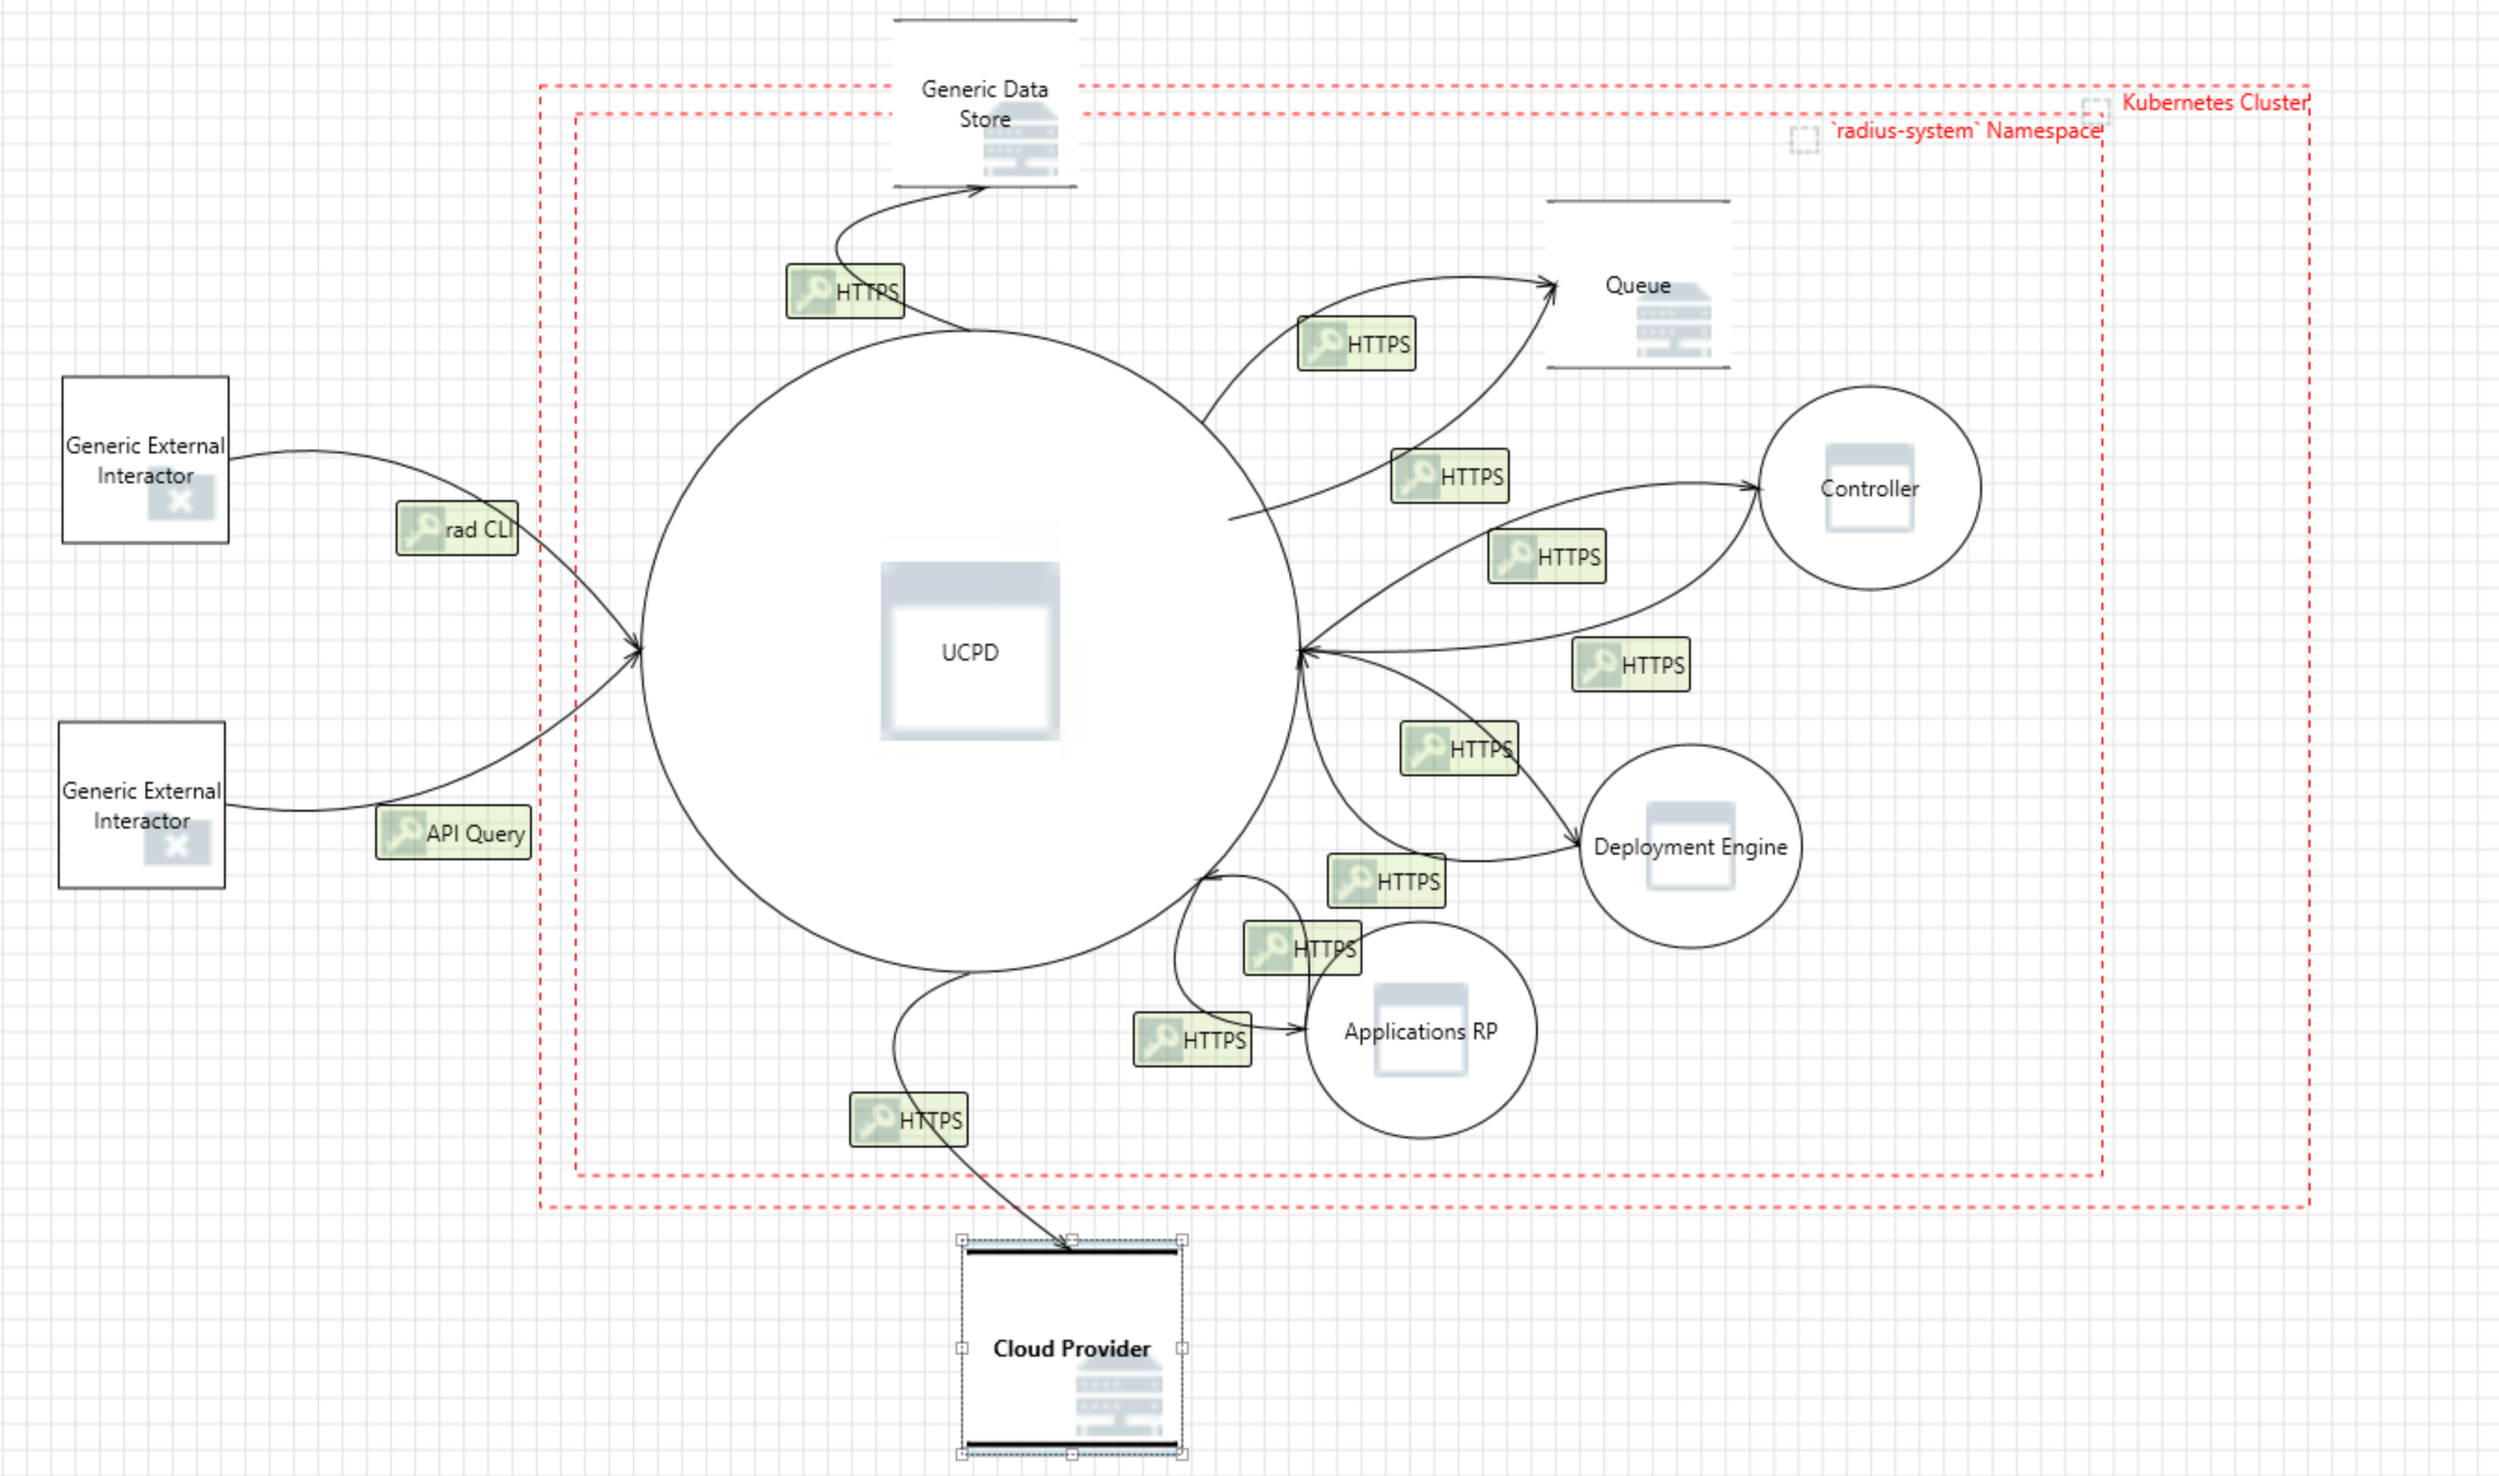
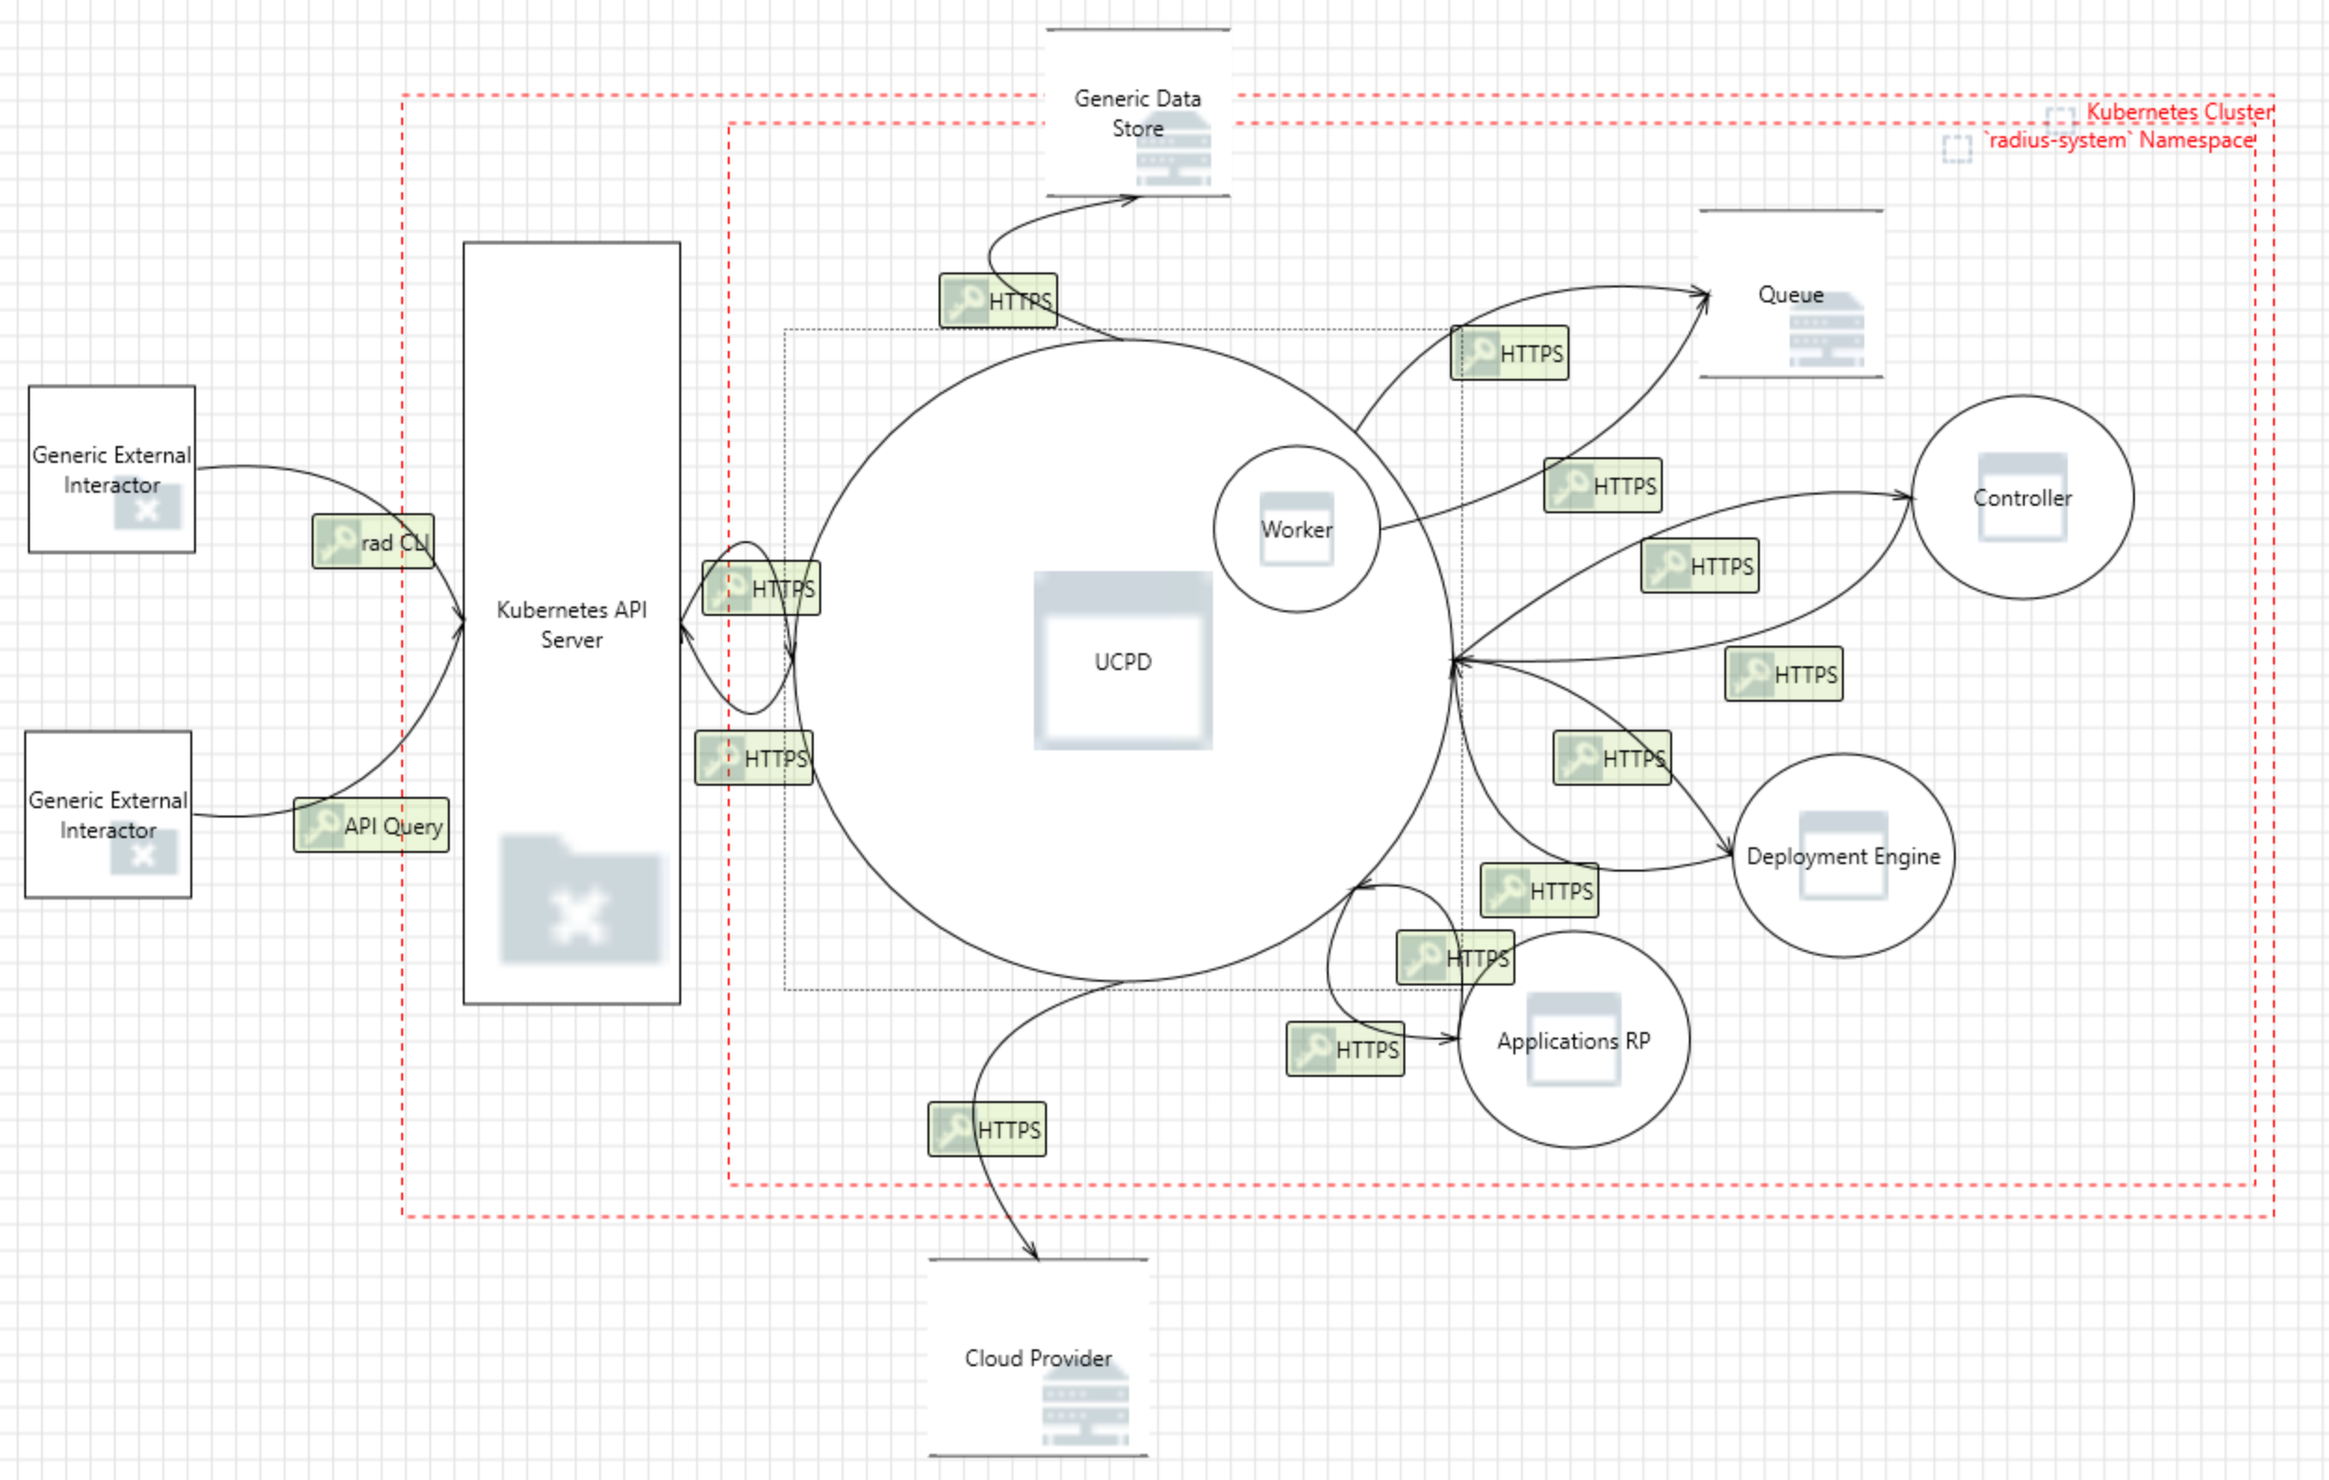
Addressing feedback

diff --git a/architecture/2024-11-ucp-component-threat-model.md b/architecture/2024-11-ucp-component-threat-model.md
@@ -147,19 +147,25 @@ In this section, we will discuss the different clients of the Radius UCP (Univer
 
 ## Trust Boundaries
 
+### UCP Container runs as Non-Root
+
+As of November 24, 2024, the UCP container runs as a non-root user. This security measure helps to limit the potential impact of a container compromise by restricting the privileges available to the container. Running containers as non-root users is a best practice that enhances the overall security posture of the system. For more details, refer to the [Dockerfile](https://github.com/radius-project/radius/blob/96504063bbab8c0ee53b0955a9647cf00c7f5fae/deploy/images/ucpd/Dockerfile#L14).
+
 ### Trust Model of UCP Clients
 
-The clients of the UCP include other Radius components like Applications RP, CLI, Controller, Dashboard, and Deployment Engine. Most of these clients reside within the same Kubernetes cluster and namespace as the UCP, except for the Radius CLI, which operates outside of the Kubernetes cluster and, therefore, outside of the namespace.
+UCP is a [Kubernetes API Service](https://kubernetes.io/docs/concepts/extend-kubernetes/api-extension/apiserver-aggregation/) that aims to extend Kubernetes with its APIs and capabilities. So anything that is sent to an API path that starts with `/apis/api.ucp.dev/v1alpha3` gets sent to the UCP through the Kubernetes API Server. This means that for external clients like Radius CLI, we rely on Kubernetes authentication and don't provide any additional authentication mechanism.
 
-For clients that are in the same cluster and namespace as the UCP component, we rely on Kubernetes to implement the necessary security measures and establish the required trust boundary. For external clients--meaning clients that are outside of this trust boundary--we rely on the host machine's trust boundary and assume that it is not compromised. In such cases, proper authentication and authorization are essential to maintain security.
+![CLI - Kubernetes API Server - UPC](./2024-11-ucp-component-threat-model/cli-kubernetes-api-server-ucp.png)
+
+In terms of authentication between UCP and resource providers, we also don't have any authentication mechanisms right now. We use [AnonymousCredential](https://github.com/radius-project/radius/blob/main/pkg/azure/tokencredentials/anonymous.go#L50) while making calls to the resource providers from UCP. It basically means that there are no tokens in the request making the communication unauthenticated.
 
 ### Trust Model of Internal Resource providers
 
 Currently, our only resource provider is the Applications RP. As mentioned above, the Applications RP lives in the same Kubernetes cluster and namespace as the UCP. Therefore, the trust boundaries are defined by the Kubernetes cluster and the namespace within that cluster.
 
-### Trust Model of External Resource Manages (Azure and AWS)
+### Trust Model of External Resource Managers (Azure and AWS)
 
-The UCP routes user requests to Azure and AWS whenever a resource from those providers is requested. In these cases, we rely on Azure and AWS to establish the trust boundary and operate under the assumption that they are secure and trustworthy.
+The UCP routes user requests to Azure and AWS whenever a resource from those providers is requested. In these cases, we rely on Azure and AWS to establish the trust boundary and operate under the assumption that they are secure and trustworthy. We provide necessary credentials that the user has provided to us and authenticate to these cloud providers. We, then, trigger the next action.
 
 ## Assumptions
 
@@ -187,7 +193,7 @@ This threat model assumes that:
 
 ### Threats
 
-#### Threat: Spoofing Deployment Engine Could Cause Information Disclosure and Denial of Service
+#### Threat: Spoofing a Resource Provider Could Cause Information Disclosure and Denial of Service
 
 **Description:** If a malicious actor can spoof the Deployment Engine by tampering with the configuration in the UCP, the UCP will start sending requests to the malicious server. The malicious server can capture the traffic, leading to information disclosure. This would effectively disable the UCP, causing a Denial of Service.
 
@@ -216,16 +222,21 @@ This threat model assumes that:
 
 #### Threat: Escalation of Privilege by Using Radius to Circumvent Kubernetes RBAC Controls
 
-**Description:** A malicious actor could circumvent Kubernetes RBAC controls and create arbitrary resources in Kubernetes by using Universal Control Plane. UCP operates with a wide scope of permissions in Kubernetes and the cloud.
+**Description:** A malicious actor could circumvent Kubernetes RBAC controls and create arbitrary resources in Kubernetes by exploiting the Universal Control Plane (UCP). The UCP has the following permissions as of November 24, 2024:
 
-At the time of writing, Radius does not provide granular authorization controls. Any authenticated client can create any Radius resource and execute any action Radius is capable of taking. This is the case in UCP as well as other components of Radius like the Kubernetes controllers.
+- Create, Delete, Get, List, Patch, Update, and Watch on ConfigMaps, Secrets, Services, Deployments, StatefulSets, and `ucp.dev` resources.
+- All permissions on `api.ucp.dev` resources.
 
-**Impact:** An authorized user of the Kubernetes cluster with permission to create a resource can execute any application definition in any environment registered with Radius.
+**Impact:** This level of access could allow an attacker to perform unauthorized actions, potentially compromising the entire Kubernetes cluster and its resources. Unauthorized resource creation, modification, or deletion could lead to data breaches, service disruptions, and loss of control over the cluster.
 
 **Mitigations:**
 
-1. Operators should limit direct access to the Radius API using Kubernetes RBAC.
-2. We should revisit the threat model and provide a more robust set of authorization controls when granular authorization policies are added to Radius.
+1. **Limit Direct Access to the Radius API Using Kubernetes RBAC:**
+   1. Action: Implement strict RBAC policies to limit which users and service accounts can access the Radius API. Ensure that only trusted and necessary entities have the required permissions.
+   2. Implementation: Review and update the RBAC policies regularly to ensure they adhere to the principle of least privilege.
+2. **Enhance Authorization Controls:**
+   1. Action: Develop and implement more granular authorization controls within the UCP to enforce fine-grained access policies.
+   2. Implementation: Introduce role-based access controls within the UCP itself, allowing for more specific permissions and roles tailored to different user needs.
 
 **Status:** These mitigations are partial and require configuration by the operator. We will revisit and improve this area in the future.
 
@@ -243,26 +254,30 @@ At the time of writing, Radius does not provide granular authorization controls.
 
 **Status:** Other than the second mitigation (secure communication) listed above, none of the mitigations is currently active.
 
-#### Threat: Use of Weak Cryptographic Hashing Algorithm (SHA-1)
+#### Threat: A Malicious Actor Could Exploit SHA-1 Weaknesses to Generate Hash Collisions
 
-**Description:** As mentioned above, the UCP uses SHA-1 for hashing resource IDs and generating ETags.
+**Description:** A malicious actor could exploit the known vulnerabilities of the SHA-1 hashing algorithm to generate hash collisions. The UCP currently uses SHA-1 for hashing resource IDs and generating ETags. This could potentially allow an attacker to create two different inputs that produce the same hash value, leading to unauthorized access or data manipulation.
 
-**Impact:** Although used for non-security purposes, SHA-1 has known vulnerabilities. If misused in security contexts, it could lead to hash collisions and potential security weaknesses. Also, if we want to have a stronger cryptographic hashing algorithm for hashing resource IDs and generating ETags, we should use another one.
+**Impact:** Although SHA-1 is used for non-security purposes, its vulnerabilities could be exploited to create hash collisions. This could result in unauthorized access to resources, data corruption, or other security weaknesses if the hashes are used in security-sensitive contexts. Using a stronger cryptographic hashing algorithm is essential to ensure the integrity and security of the system.
 
 **Mitigations:**
 
-1. **Replace SHA-1 with a Stronger Algorithm.**
+1. **Replace SHA-1 with a Stronger Algorithm**:
+   1. **Action**: Identify all instances where SHA-1 is used in the codebase.
+   2. **Implementation**: Replace SHA-1 with SHA-256 or another secure hashing algorithm for hashing resource IDs and generating ETags. Ensure that the new algorithm is consistently used across all components. Test to verify that the change does not impact system functionality.
 
-**Status:** The mitigation is not active as of now. An action item is created to update the crypto algorithm used in hashing resource IDs and generating ETags as well as in other components of Radius.
+**Status:** The mitigation is not active as of now. An action item has been created to update the cryptographic algorithm used in hashing resource IDs and generating ETags, as well as in other components of Radius.
 
 ## Open Questions
 
 ## Action Items
 
-1. Use a hashing algorithm other than SHA-1 while computing the hash of resource IDs and generating ETags.
-2. Check if RBAC with Least Privilege is configured for every component to ensure that each component has only the permissions it needs to function. Make changes to the necessary components if required.
-3. Define and implement necessary Network Policies to ensure that communication is accepted only from expected and authorized components. Regularly review and update these policies to maintain security.
-4. Containers should run as a non-root user wherever possible to minimize the risks. Check if we can run any of the Radius containers as non-root. Do the necessary updates.
+1. **Use a Stronger Hashing Algorithm**:
+   1. **Action**: Replace SHA-1 with a more secure hashing algorithm (e.g., SHA-256) for computing the hash of resource IDs and generating ETags. The issue that keeps track of this action item: <https://github.com/radius-project/radius/issues/8084>.
+2. **Ensure RBAC with Least Privilege is Configured for UCP**:
+   1. **Action**: Implement strict RBAC policies to limit which users and service accounts can access the UCP. Ensure that only trusted and necessary entities have the required permissions. Refer to the following pull request for more details: <https://github.com/radius-project/radius/pull/8080>.
+3. **Secure Communication Between UCP and Resource Providers**:
+   1. **Action**: Implement a form of authentication (e.g., mTLS) and apply Network Policies where applicable to secure communication between the UCP and resource providers. Documentation should also be added. Here is the issue that keeps track of this action item: <https://github.com/radius-project/radius/issues/8083>.
 
 ## Review Notes
 
